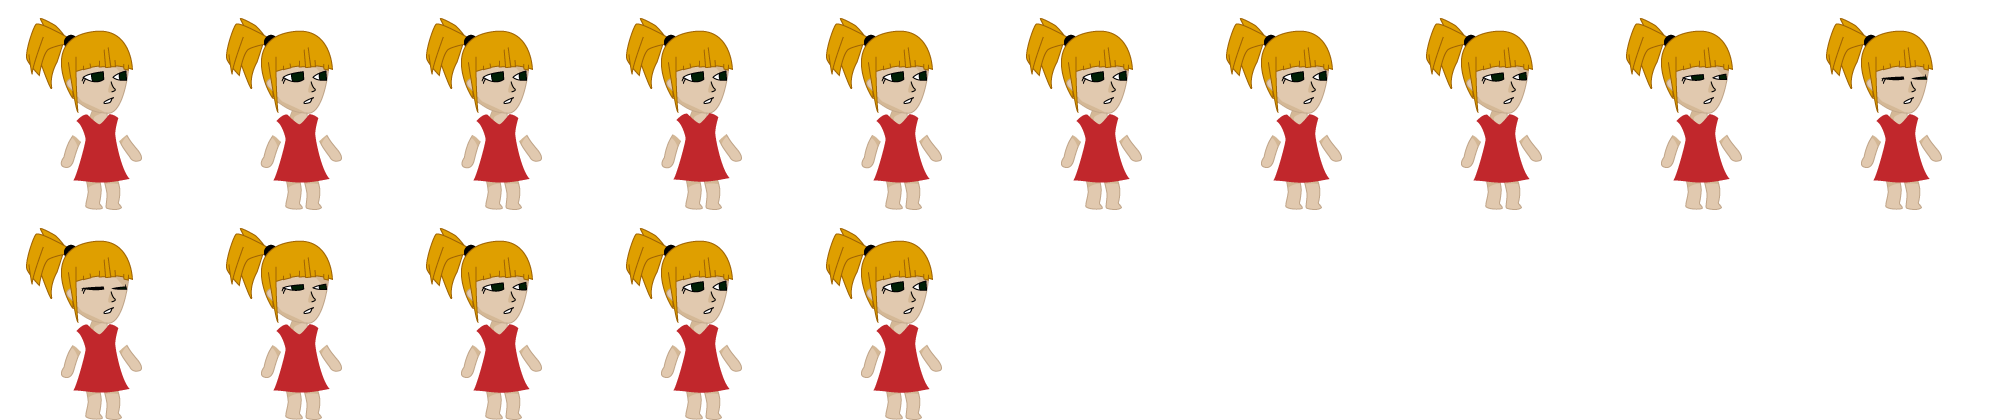
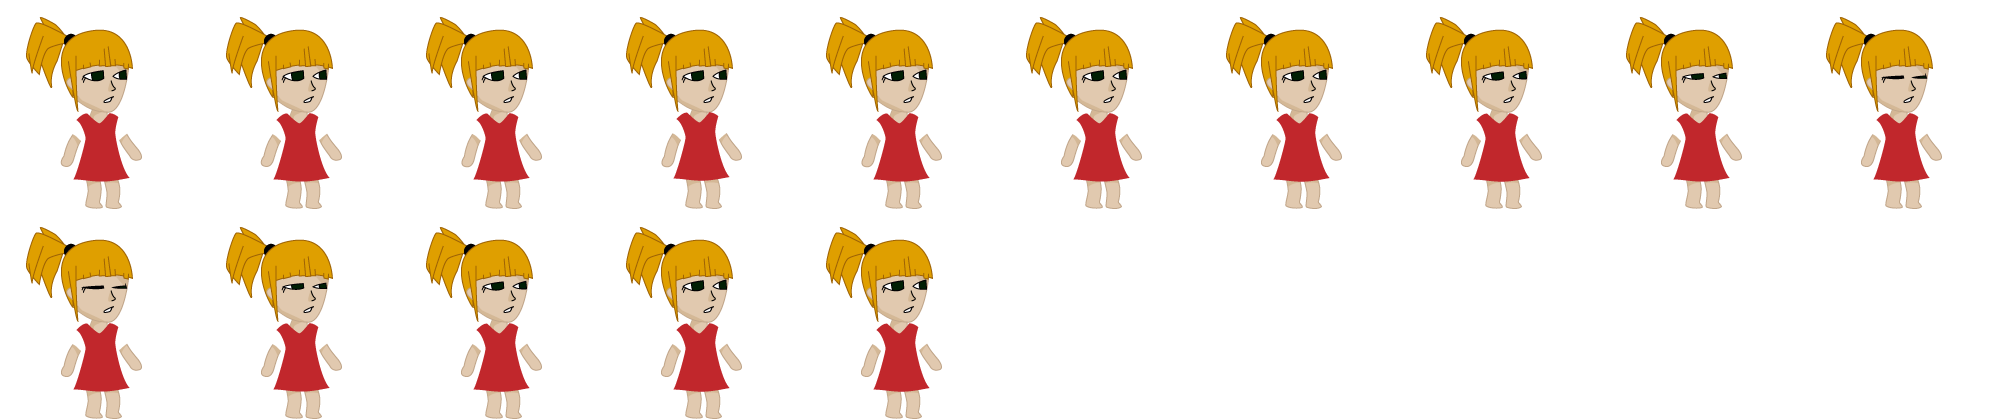
Removed feet and ponytails in every animation.

diff --git a/Nobots/Nobots/Nobots/Elements/IdleCharacterState.cs b/Nobots/Nobots/Nobots/Elements/IdleCharacterState.cs
@@ -9,12 +9,19 @@ namespace Nobots.Elements
 {
     public class IdleCharacterState : CharacterState
     {
+        int columns = 0;
+        int rows = 0;
+        int totalFrames = 0;
+        int currentFrame = 0;
         public IdleCharacterState(Scene scene, Character character) 
             : base(scene, character)
         {
+            columns = 10;
+            rows = 2;
+            totalFrames = 15;
             texture = scene.Game.Content.Load<Texture2D>(character is Energy ? "idleEnergy" : "idle");
-            characterWidth = texture.Width / 10;
-            characterHeight = texture.Height / 2;
+            characterWidth = texture.Width / columns;
+            characterHeight = texture.Height / rows;
             character.texture = texture;
             textureXmin = 0;
             textureYmin = 0;
@@ -30,26 +37,16 @@ namespace Nobots.Elements
         {
             seconds += (float)gameTime.ElapsedGameTime.TotalSeconds;
        
-            if (seconds > 0.04f)
+            if (seconds > 0.03f)
             {
-                seconds -= 0.04f;
-                textureXmin += texture.Width / 10;
+                seconds -= 0.03f;
+                currentFrame = currentFrame % totalFrames;
+                textureXmin = (currentFrame % columns) * characterWidth;
+                textureYmin = (currentFrame / columns) * characterHeight;
+                currentFrame++;
 
-                if (textureXmin == (texture.Width / 10) * 5 && textureYmin == texture.Height / 2)
-                {
-                    textureXmin = 0;
-                    textureYmin = 0;
-                }
-                else if (textureXmin == texture.Width)
-                {
-                    textureXmin = 0;
-                    textureYmin += texture.Height / 2;
-                }
-            }
-            if (textureYmin == 0 && textureXmin == texture.Width / 10)
-            {
-                seconds -= 4f; ;
-                textureXmin = (texture.Width / 10 * 2);
+                if (currentFrame == totalFrames)
+                    seconds -= 3;
             }
 
             return new Vector2(textureXmin, textureYmin);
